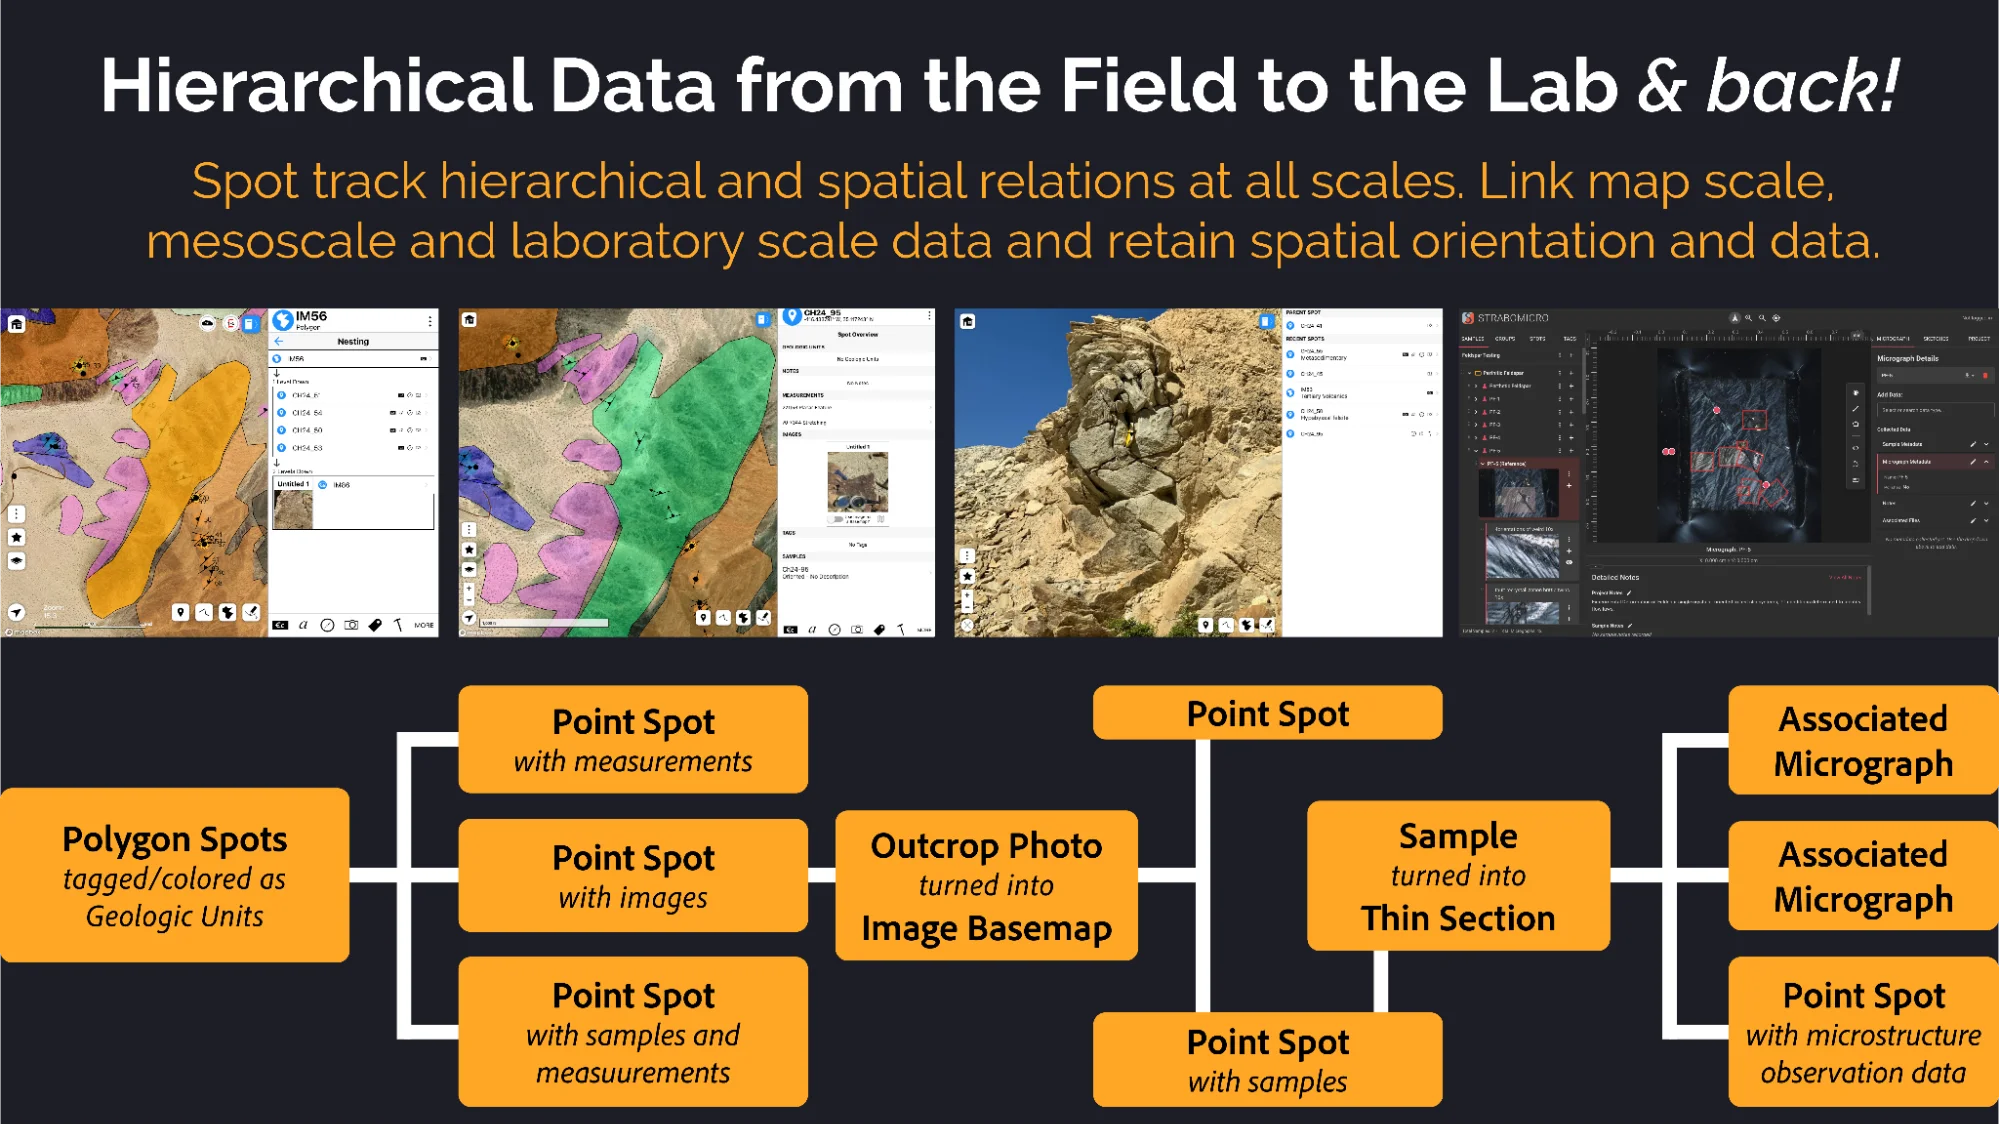
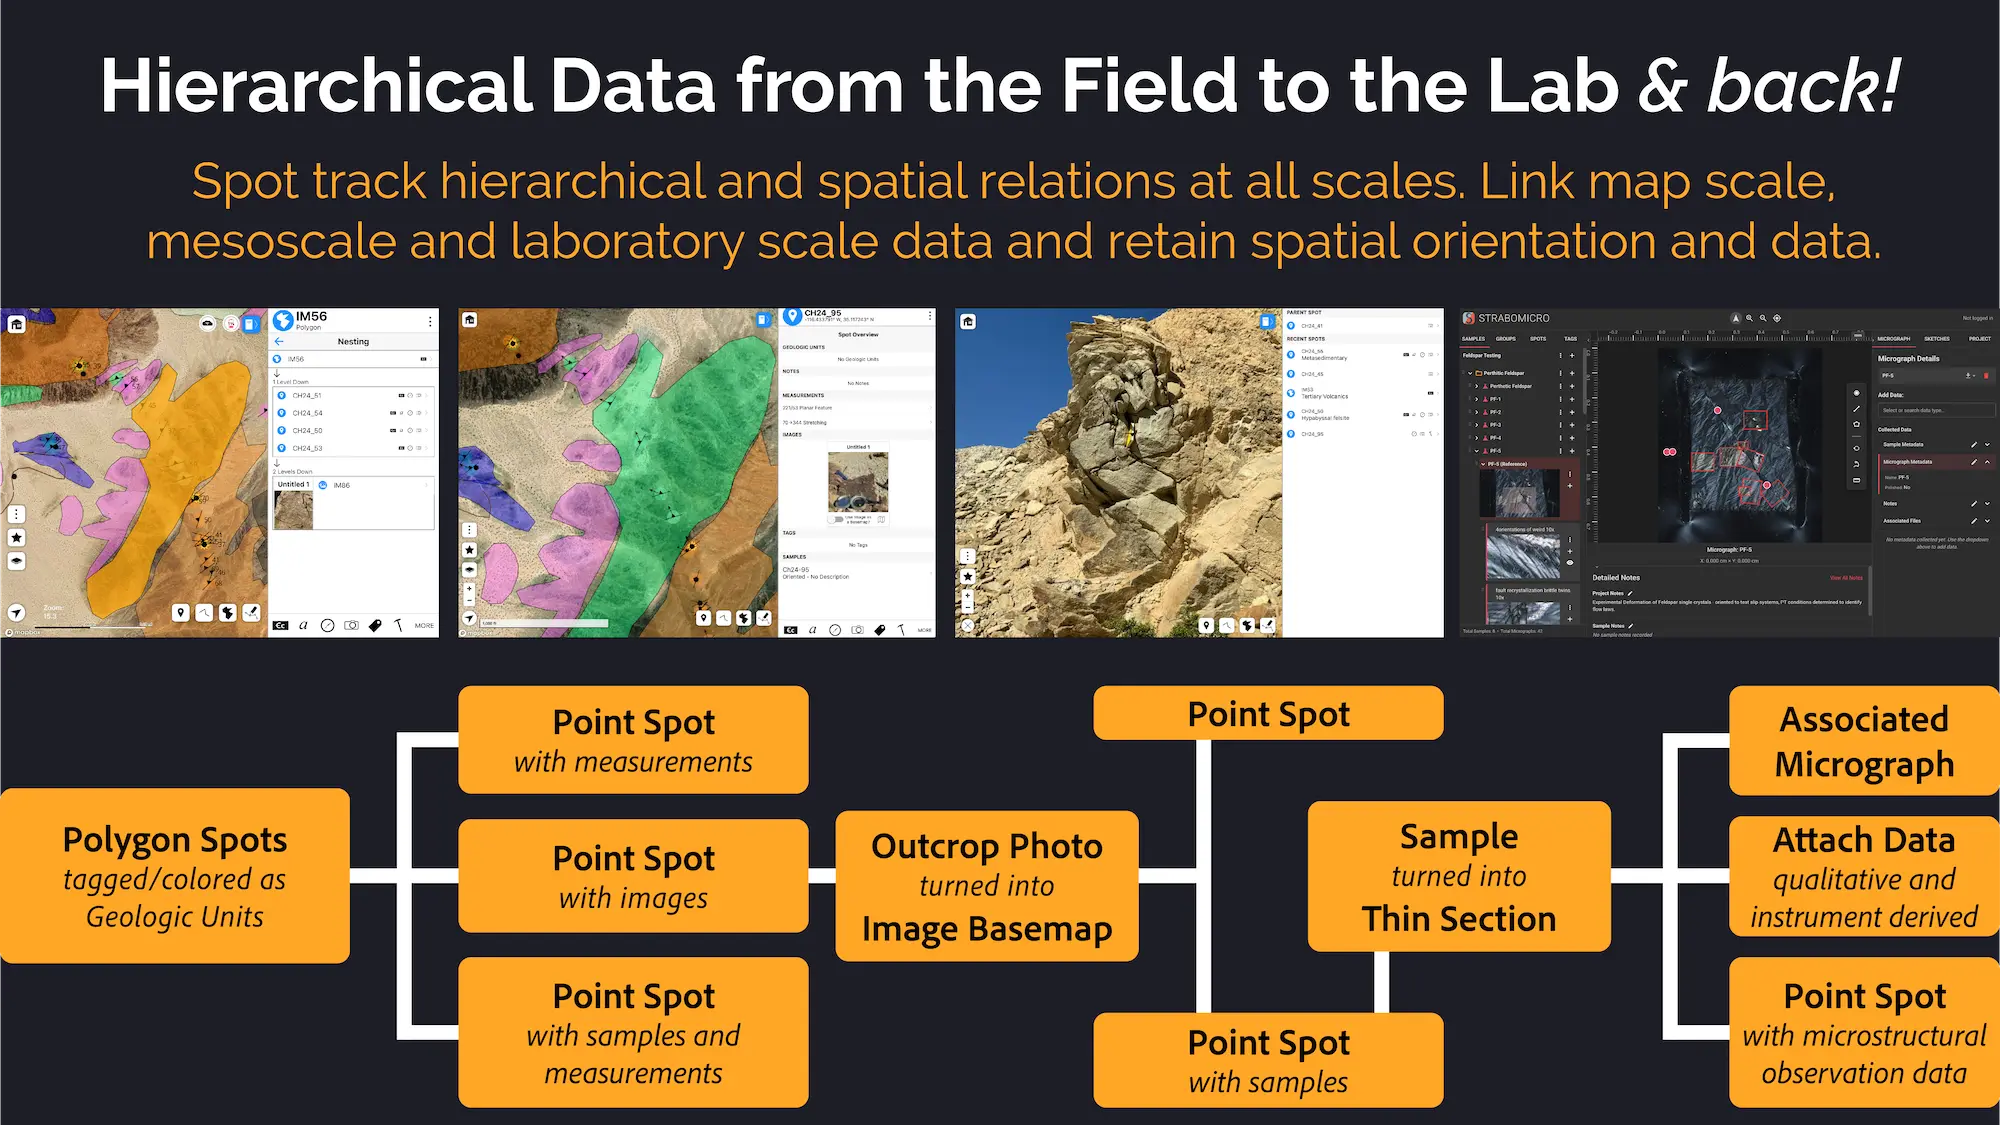
[Fix] Site fixes from Julie

diff --git a/interoperability.php b/interoperability.php
@@ -71,7 +71,7 @@ include("includes/mheader.php");
 						<h3 class="exp-box-title">User Built Tools</h3>
 						<p style="color: rgba(255, 255, 255, 0.85); line-height: 1.6; margin-bottom: 1em;">
 							Translation Tool from StraboField to GeMS used by the USGS, Andrew Hoxey<br>
-							<a href="#">Link</a>
+							<a href="https://github.com/andrewkrh/StraboGeMSTranslator" target="_blank">More Info</a>
 						</p>
 						<p style="color: rgba(255, 255, 255, 0.85); line-height: 1.6; margin-bottom: 1em;">
 							StraboField Data Project compiling and sorting tool, J Schneider<br>

diff --git a/strabomicro_landing.php b/strabomicro_landing.php
@@ -177,6 +177,7 @@ include("includes/mheader.php");
 							<li>Researchers</li>
 							<li>Educators</li>
 							<li>Students</li>
+							<li>Field and experimental geologists who study materials at the thin section scale and below</li>
 						</ul>
 					</div>
 				</div>
